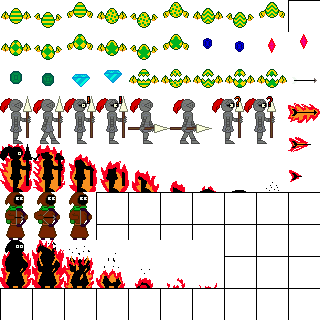
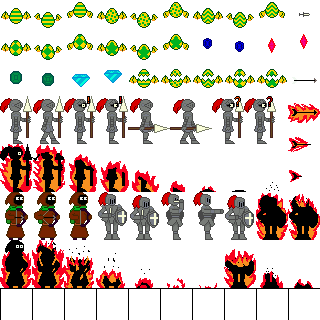
better fireball interaction

diff --git a/tamagon/src/tamagon/SpriteLoader.java b/tamagon/src/tamagon/SpriteLoader.java
@@ -40,9 +40,14 @@ public class SpriteLoader {
 	static BufferedImage[] archerShoot, archerDead, arrowBurn;
 	
 	/**
-	 * Archer's arrow
+	 * Projectiles
 	 */
-	static BufferedImage arrow;
+	static BufferedImage arrow, dagger;
+	
+	/**
+	 * Enemy: Paladin
+	 */
+	static BufferedImage[] paladinShield, paladinAttack, paladinDeath;
 	
 	/**
 	 * Loads all entities sprite once
@@ -180,5 +185,25 @@ public class SpriteLoader {
 		arrowBurn[0] = entitySheet.getSprite(288, 64+32, 32, 32);
 		arrowBurn[1] = entitySheet.getSprite(288, 64+64, 32, 32);
 		arrowBurn[2] = entitySheet.getSprite(288, 64+96, 32, 32);
+		
+		//PALADIN
+		paladinShield = new BufferedImage[2];
+		paladinShield[0] = entitySheet.getSprite(96, 192, 32, 48);
+		paladinShield[1] = entitySheet.getSprite(96+32, 192, 32, 48);
+		
+		paladinAttack = new BufferedImage[3];
+		paladinAttack[0] = entitySheet.getSprite(96+32*2, 192, 32, 48);
+		paladinAttack[1] = entitySheet.getSprite(96+32*3, 192, 32, 48);
+		paladinAttack[2] = entitySheet.getSprite(96+32*4, 192, 32, 48);
+		
+		paladinDeath = new BufferedImage[9];
+		paladinDeath[0] = entitySheet.getSprite(96+32*5, 192, 32, 48);
+		paladinDeath[1] = entitySheet.getSprite(96+32*6, 192, 32, 48);
+		paladinDeath[2] = entitySheet.getSprite(96+32*4, 192+32, 32, 48);
+		paladinDeath[3] = entitySheet.getSprite(96+32*5, 192+32, 32, 48);
+		paladinDeath[5] = entitySheet.getSprite(96+32*6, 192+32, 32, 48);
+		paladinDeath[6] = knightDeath[6];
+		paladinDeath[7] = knightDeath[7];
+		paladinDeath[8] = knightDeath[8];
 	}
 }

diff --git a/tamagon/src/tamagon/Fireball.java b/tamagon/src/tamagon/Fireball.java
@@ -49,7 +49,6 @@ public class Fireball extends Entity {
 
 	@Override
 	public void update() {
-		checkCollisionEnemy();
 		
 		//Delete entity after 1.2 seconds
 		timer++;
@@ -58,14 +57,14 @@ public class Fireball extends Entity {
 			Game.entities.remove(this);
 		}
 		
-		if (direction == 1 && !checkTileCollision(x + 4, y)) {
+		if (direction == 1 && !checkTileCollision(x + 4, y) && !checkCollisionEnemy()) {
 			// Fly right
 			x += 4;
 
 			// Invert sprite
 			offsetW = w * Game.scale;
 			offsetX = 0;
-		} else if (direction == -1 && !checkTileCollision(x - 4, y)) {
+		} else if (direction == -1 && !checkTileCollision(x - 4, y) && !checkCollisionEnemy()) {
 			// Fly left
 			x -= 4;
 
@@ -109,12 +108,15 @@ public class Fireball extends Entity {
 	/**
 	 * Checks collision with enemies
 	 */
-	private void checkCollisionEnemy() {
+	private boolean checkCollisionEnemy() {
 		for (int i = 0; i < Game.enemies.size(); i++) {
 			Entity current = Game.enemies.get(i);
 			if (this.checkCollision(this, current)) {
 				current.alive = false;
+				return true;
 			}
 		}
+		
+		return false;
 	}
 }
